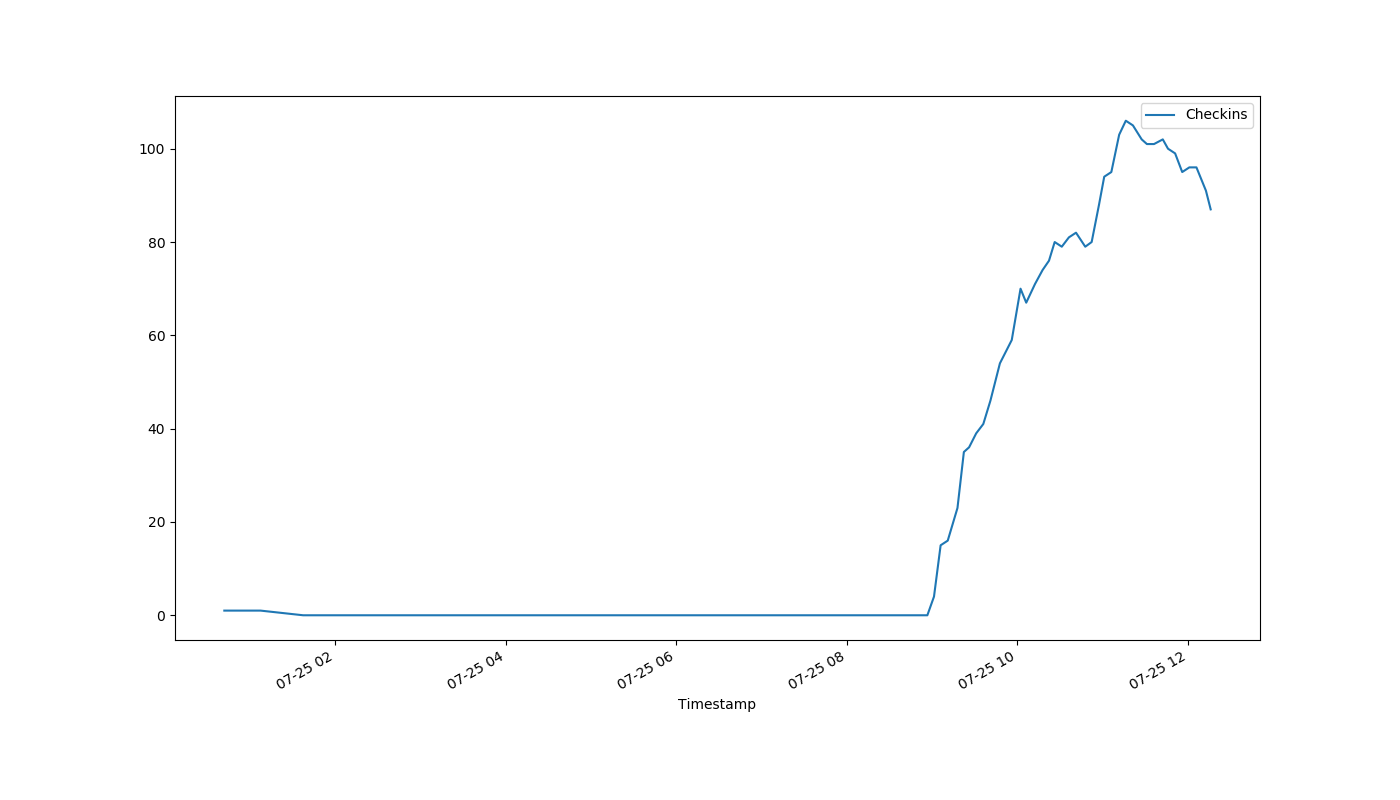
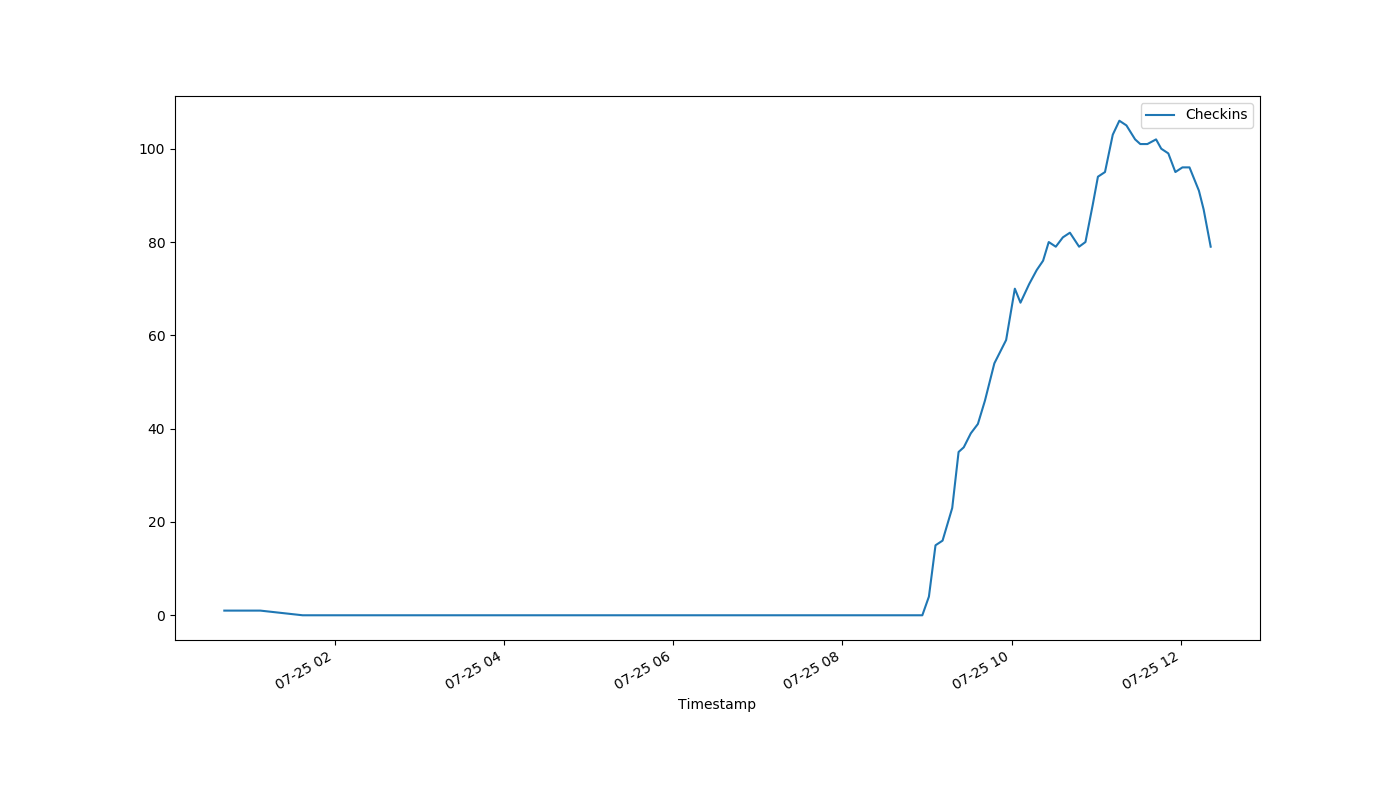
auto-Jul-25-12:23:06

diff --git a/index.html b/index.html
@@ -1,1 +1,1 @@
-<!DOCTYPE html><html><head><meta http-equiv="refresh" content="30"><link rel='stylesheet' href='holmcurrent.css'></head><body><p id='count'>87</p><div id='graph-wrap'><img id='graph' src='holmgraph-Jul-25.png'></div><p id='updated'>Last updated 12:17:00 / 12:16:03</p></body></html>
+<!DOCTYPE html><html><head><meta http-equiv="refresh" content="30"><link rel='stylesheet' href='holmcurrent.css'></head><body><p id='count'>79</p><div id='graph-wrap'><img id='graph' src='holmgraph-Jul-25.png'></div><p id='updated'>Last updated 12:22:00 / 12:21:03</p></body></html>
